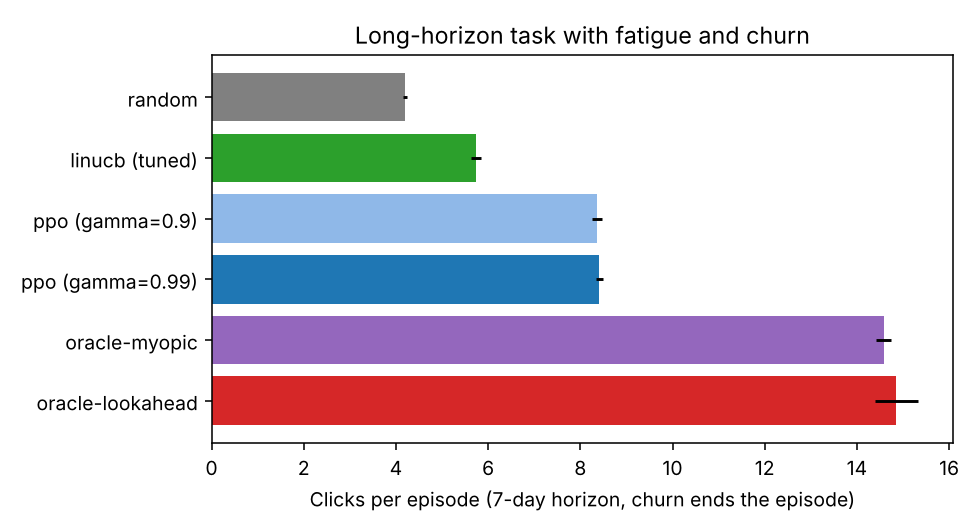
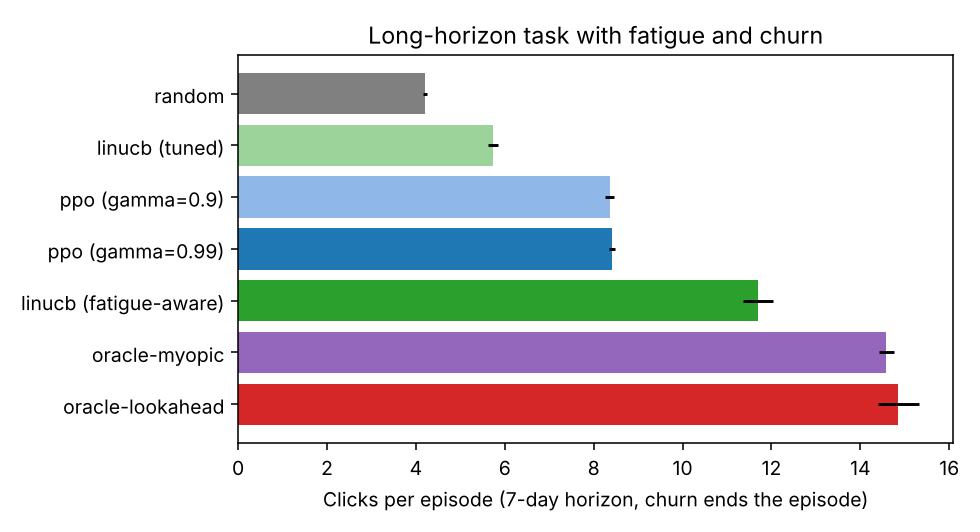
docs: correct long-horizon conclusions with a fair fatigue-aware baseline

diff --git a/aggregate_long.py b/aggregate_long.py
@@ -14,7 +14,7 @@ import numpy as np
 RUNS = Path("docs/runs_long")
 SEEDS = [0, 1, 2]
 ORDER = ["random", "linucb (tuned)", "ppo (gamma=0.9)", "ppo (gamma=0.99)",
-         "oracle-myopic", "oracle-lookahead"]
+         "linucb (fatigue-aware)", "oracle-myopic", "oracle-lookahead"]
 
 
 def main() -> None:
@@ -38,11 +38,15 @@ def main() -> None:
 
     lines += ["", "Paired differences (same evaluation users per seed):",
               paired("ppo (gamma=0.99)", "linucb (tuned)"),
+              paired("linucb (fatigue-aware)", "ppo (gamma=0.99)"),
+              paired("linucb (fatigue-aware)", "linucb (tuned)"),
               paired("ppo (gamma=0.99)", "ppo (gamma=0.9)"),
               paired("oracle-lookahead", "oracle-myopic")]
     lo, hi = np.mean(ret["random"]), np.mean(ret["oracle-lookahead"])
     frac = (np.mean(ret["ppo (gamma=0.99)"]) - lo) / (hi - lo)
-    lines += ["", f"PPO closes {100 * frac:.0f}% of the gap between random and oracle-lookahead."]
+    frac_b = (np.mean(ret["linucb (fatigue-aware)"]) - lo) / (hi - lo)
+    lines += ["", f"Share of the random-to-oracle-lookahead gap closed: PPO {100 * frac:.0f}%, "
+                  f"fatigue-aware LinUCB {100 * frac_b:.0f}%."]
     Path("docs/long_horizon_results.md").write_text("\n".join(lines) + "\n")
     print("\n".join(lines))
 
@@ -50,7 +54,7 @@ def main() -> None:
     means = [np.mean(ret[n]) for n in ORDER]
     errs = [np.std(ret[n], ddof=1) for n in ORDER]
     ax.barh(ORDER, means, xerr=errs,
-            color=["gray", "tab:green", "#8fb8e8", "tab:blue", "tab:purple", "tab:red"])
+            color=["gray", "#9bd39b", "#8fb8e8", "tab:blue", "tab:green", "tab:purple", "tab:red"])
     ax.invert_yaxis()
     ax.set_xlabel("Clicks per episode (7-day horizon, churn ends the episode)")
     ax.set_title("Long-horizon task with fatigue and churn")

diff --git a/README.md b/README.md
@@ -40,8 +40,9 @@ sequential decision problem, which is exactly what RL is for.
 - [x] Learning curves and multi-seed comparison (5 seeds, mean ± std)
 - [x] Expose click feedback in the observation so the policy can personalize (partial success, see below)
 - [x] Tuned LinUCB baseline and belief-state PPO variant
-- [x] Longer-horizon task with fatigue and churn (RL beats tuned LinUCB, cause not yet isolated)
-- [ ] Fatigue-aware bandit baseline, more seeds, longer PPO training
+- [x] Longer-horizon task with fatigue and churn
+- [x] Fatigue-aware bandit baseline (it beats PPO at the current training budget)
+- [ ] Longer PPO training / better architecture, more seeds
 - [ ] Real feedback pipeline
 - [ ] LLM agents (collector, summarizer, reflector)
 - [ ] GitHub Actions daily run
@@ -181,8 +182,14 @@ with a new user each episode (`curio.env_longterm.LongTermFeedEnv`):
   user **churns** and the episode ends, losing all future clicks.
 
 PPO sees what it showed (so it can track exposure), clicks and skips, a belief
-about the user's interest, and day-level CTR history. LinUCB was tuned on
-validation seeds until its optimum was on a flat plateau.
+about the user's interest, and day-level CTR history. Two LinUCB baselines are
+included, both tuned on separate validation seeds:
+
+- **linucb (tuned)**: per-user bandit that ignores fatigue.
+- **linucb (fatigue-aware)**: the same bandit plus a penalty on items similar to
+  its own running exposure vector (computed from the items it showed, never from
+  hidden user state). Its hyperparameters were tuned over three rounds of grid
+  search until the best setting had worse neighbours on every side.
 
 | Method | Return (clicks per episode, mean ± std, 3 seeds) | Days before churn (max 7) |
 |---|---|---|
@@ -190,15 +197,18 @@ validation seeds until its optimum was on a flat plateau.
 | linucb (tuned) | 5.74 ± 0.11 | 2.67 |
 | ppo (gamma=0.9) | 8.36 ± 0.10 | 3.44 |
 | ppo (gamma=0.99) | 8.41 ± 0.08 | 3.46 |
+| linucb (fatigue-aware) | 11.70 ± 0.34 | 4.31 |
 | oracle-myopic | 14.59 ± 0.16 | 5.06 |
 | oracle-lookahead | 14.85 ± 0.47 | 5.11 |
 
 Paired differences (same evaluation users per seed):
 - ppo (gamma=0.99) minus linucb (tuned): +2.68 ± 0.17 (first wins on 3/3 seeds)
+- linucb (fatigue-aware) minus ppo (gamma=0.99): +3.28 ± 0.30 (first wins on 3/3 seeds)
+- linucb (fatigue-aware) minus linucb (tuned): +5.96 ± 0.36 (first wins on 3/3 seeds)
 - ppo (gamma=0.99) minus ppo (gamma=0.9): +0.05 ± 0.17 (first wins on 2/3 seeds)
 - oracle-lookahead minus oracle-myopic: +0.27 ± 0.50 (first wins on 2/3 seeds)
 
-PPO closes 40% of the gap between random and oracle-lookahead.
+Share of the random-to-oracle-lookahead gap closed: PPO 40%, fatigue-aware LinUCB 70%.
 
 Reproduce with:
 
@@ -211,19 +221,19 @@ python aggregate_long.py
 
 **Reading these results honestly**
 
-- PPO clearly beats tuned LinUCB here (+2.7 clicks per episode, 3/3 seeds) and
-  keeps users about 0.8 days longer. This is the first setting where RL shows a
-  solid advantage over a tuned bandit.
-- The advantage is **not shown to come from long-horizon planning**. Changing the
-  discount from 0.9 to 0.99 made no difference (+0.05 ± 0.17), and even the
+- Against a fatigue-unaware bandit, PPO looks strong (+2.7 clicks per episode).
+  That comparison was misleading: **a bandit with a simple fatigue penalty beats
+  PPO by +3.3 clicks per episode on all 3 seeds** and closes about 70% of the gap to
+  the oracles, versus 40% for PPO. Most of PPO's earlier advantage was the
+  fatigue information, not reinforcement learning as such.
+- Changing the discount from 0.9 to 0.99 made no difference (+0.05 ± 0.17), and the
   lookahead oracle is only marginally better than the myopic one (+0.27 ± 0.50).
-  A more likely explanation is that LinUCB ignores fatigue entirely, while PPO
-  learns a fatigue-aware policy from its observations. A fatigue-aware bandit
-  would be a fairer baseline and is on the roadmap.
-- PPO closes only about 40% of the gap to the oracles, which know the true
-  interest. Training curves were still improving, so more training may help.
-- Three seeds, one simulator with hand-chosen constants (the oracle-lookahead
-  weight was picked on a separate seed, not the evaluation seeds).
+  In this simulator, planning ahead adds little beyond avoiding fatigue.
+- PPO's training curves were still improving after 200 updates, so a longer run
+  or a better-suited architecture might narrow the gap. This has not been tested
+  yet, so the result is "PPO at this training budget loses to a good heuristic",
+  not "RL cannot win here".
+- Three seeds, one simulator with hand-chosen constants.
 
 ## Running the tests
 

diff --git a/docs/long_horizon_results.md b/docs/long_horizon_results.md
@@ -4,12 +4,15 @@
 | linucb (tuned) | 5.74 ± 0.11 | 2.67 |
 | ppo (gamma=0.9) | 8.36 ± 0.10 | 3.44 |
 | ppo (gamma=0.99) | 8.41 ± 0.08 | 3.46 |
+| linucb (fatigue-aware) | 11.70 ± 0.34 | 4.31 |
 | oracle-myopic | 14.59 ± 0.16 | 5.06 |
 | oracle-lookahead | 14.85 ± 0.47 | 5.11 |
 
 Paired differences (same evaluation users per seed):
 - ppo (gamma=0.99) minus linucb (tuned): +2.68 ± 0.17 (first wins on 3/3 seeds)
+- linucb (fatigue-aware) minus ppo (gamma=0.99): +3.28 ± 0.30 (first wins on 3/3 seeds)
+- linucb (fatigue-aware) minus linucb (tuned): +5.96 ± 0.36 (first wins on 3/3 seeds)
 - ppo (gamma=0.99) minus ppo (gamma=0.9): +0.05 ± 0.17 (first wins on 2/3 seeds)
 - oracle-lookahead minus oracle-myopic: +0.27 ± 0.50 (first wins on 2/3 seeds)
 
-PPO closes 40% of the gap between random and oracle-lookahead.
+Share of the random-to-oracle-lookahead gap closed: PPO 40%, fatigue-aware LinUCB 70%.
